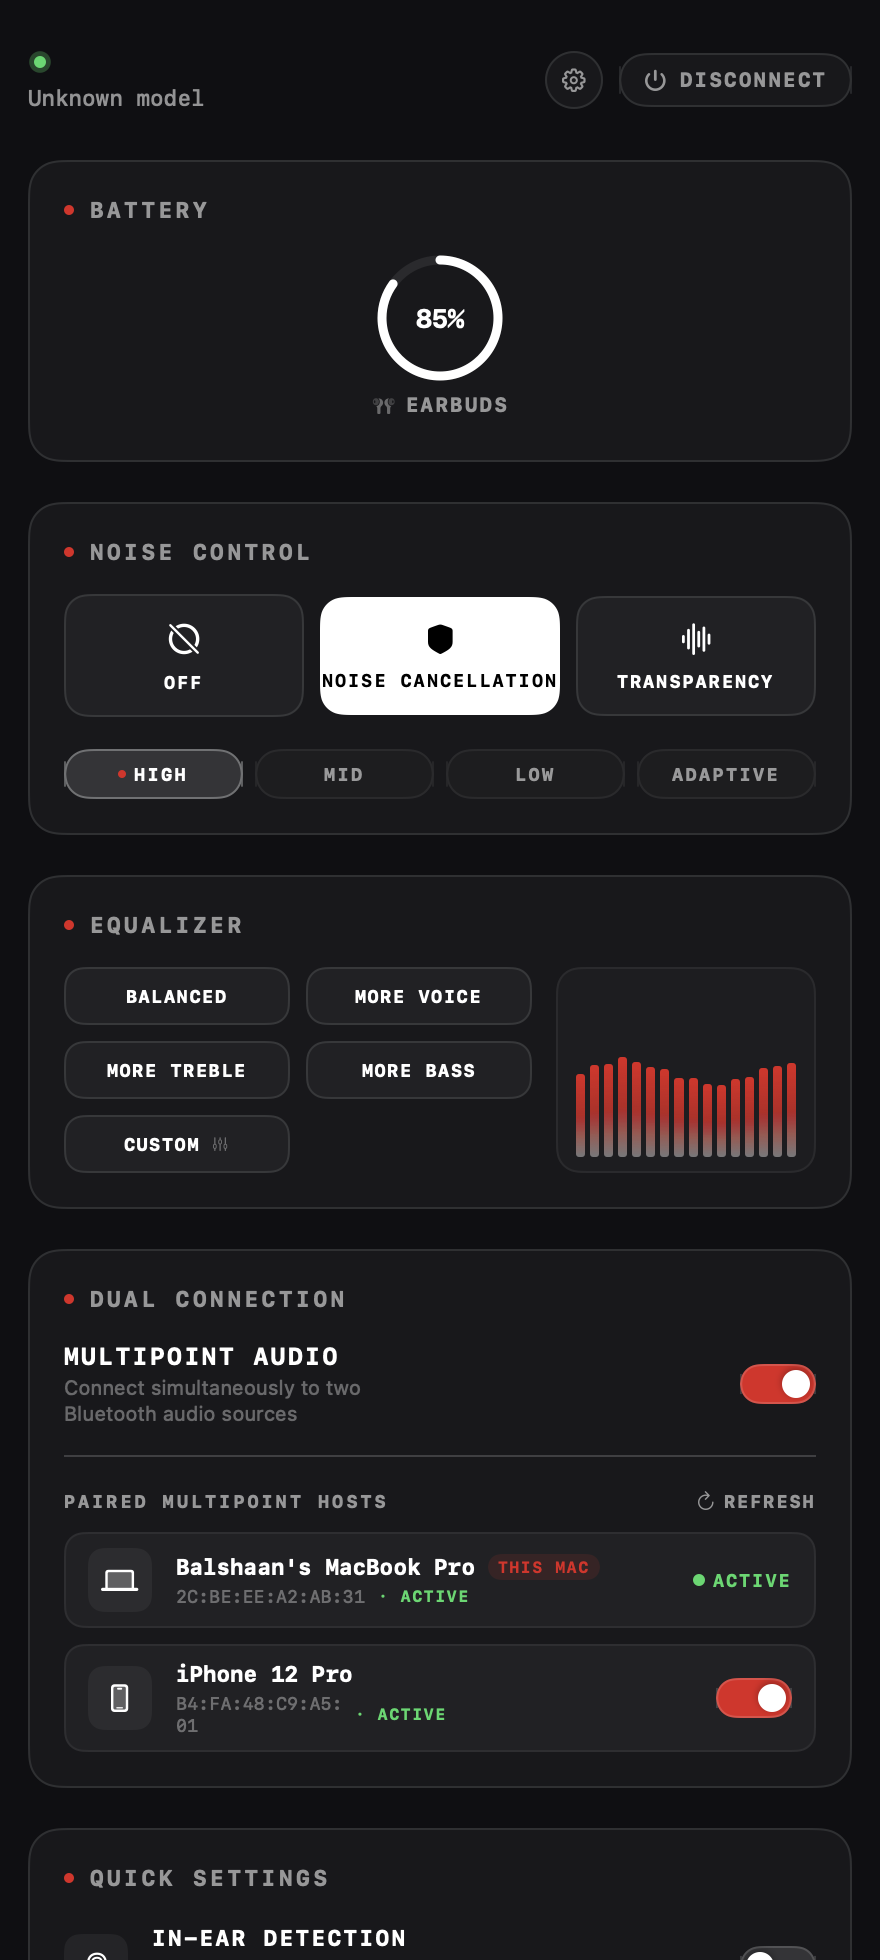
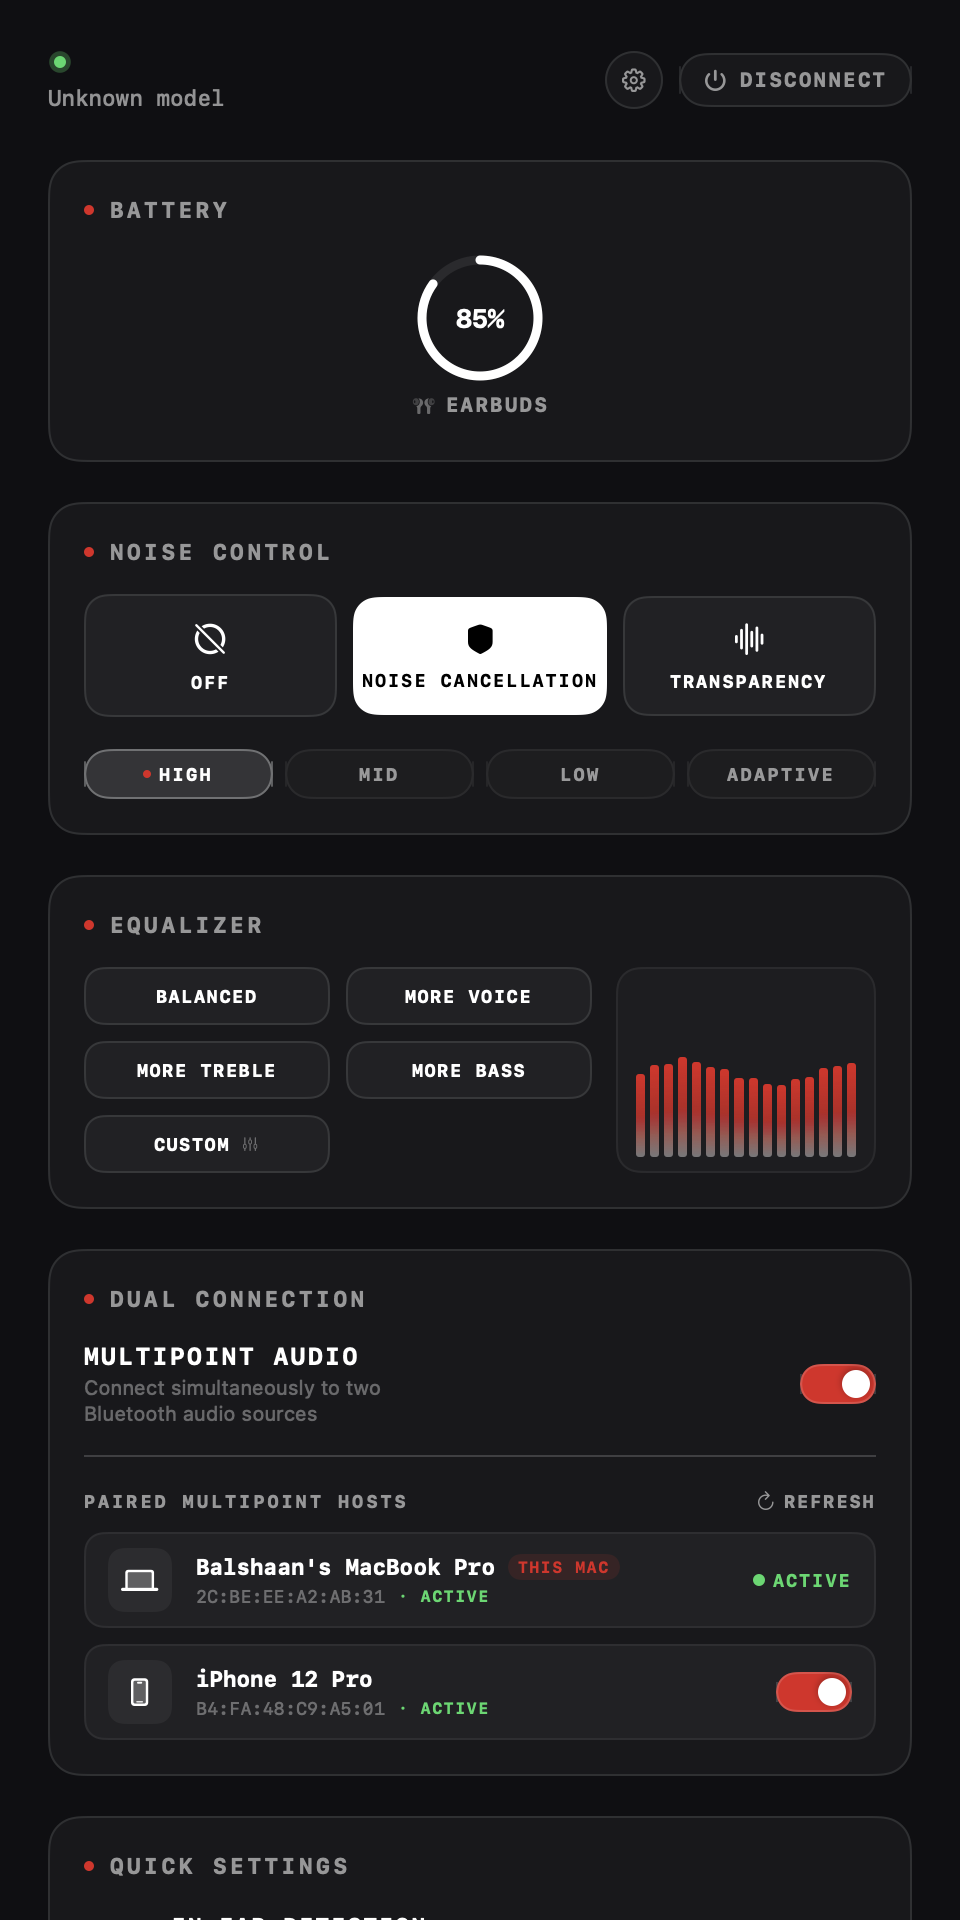
Improve screenshot clarity and set 1:1 crisp display width in README

diff --git a/README.md b/README.md
@@ -5,7 +5,7 @@ A lightweight, native SwiftUI app designed specifically for macOS (Apple Silicon
 Built with Nothing's signature dark aesthetic, featuring live battery rings, full Active Noise Cancellation (ANC) switching, Equalizer profiles, Ultra Bass / Bass Enhance toggles, Find My Earbuds, Auto-Connect, and a dynamic menu bar extra with a circular battery gauge.
 
 <p align="center">
-  <img src="docs/assets/ear-desk-screenshot.png" alt="Ear-Desk for macOS showing CMF Headphone Pro controls with Battery Gauge, Noise Control, Equalizer with animated spectrum visualizer, Quick Settings, and Find My Earbuds" width="720" />
+  <img src="docs/assets/ear-desk-screenshot.png" alt="Ear-Desk for macOS showing CMF Headphone Pro controls with Battery Gauge, Noise Control, Equalizer with animated spectrum visualizer, Quick Settings, and Find My Earbuds" width="480" />
 </p>
 
 ---
